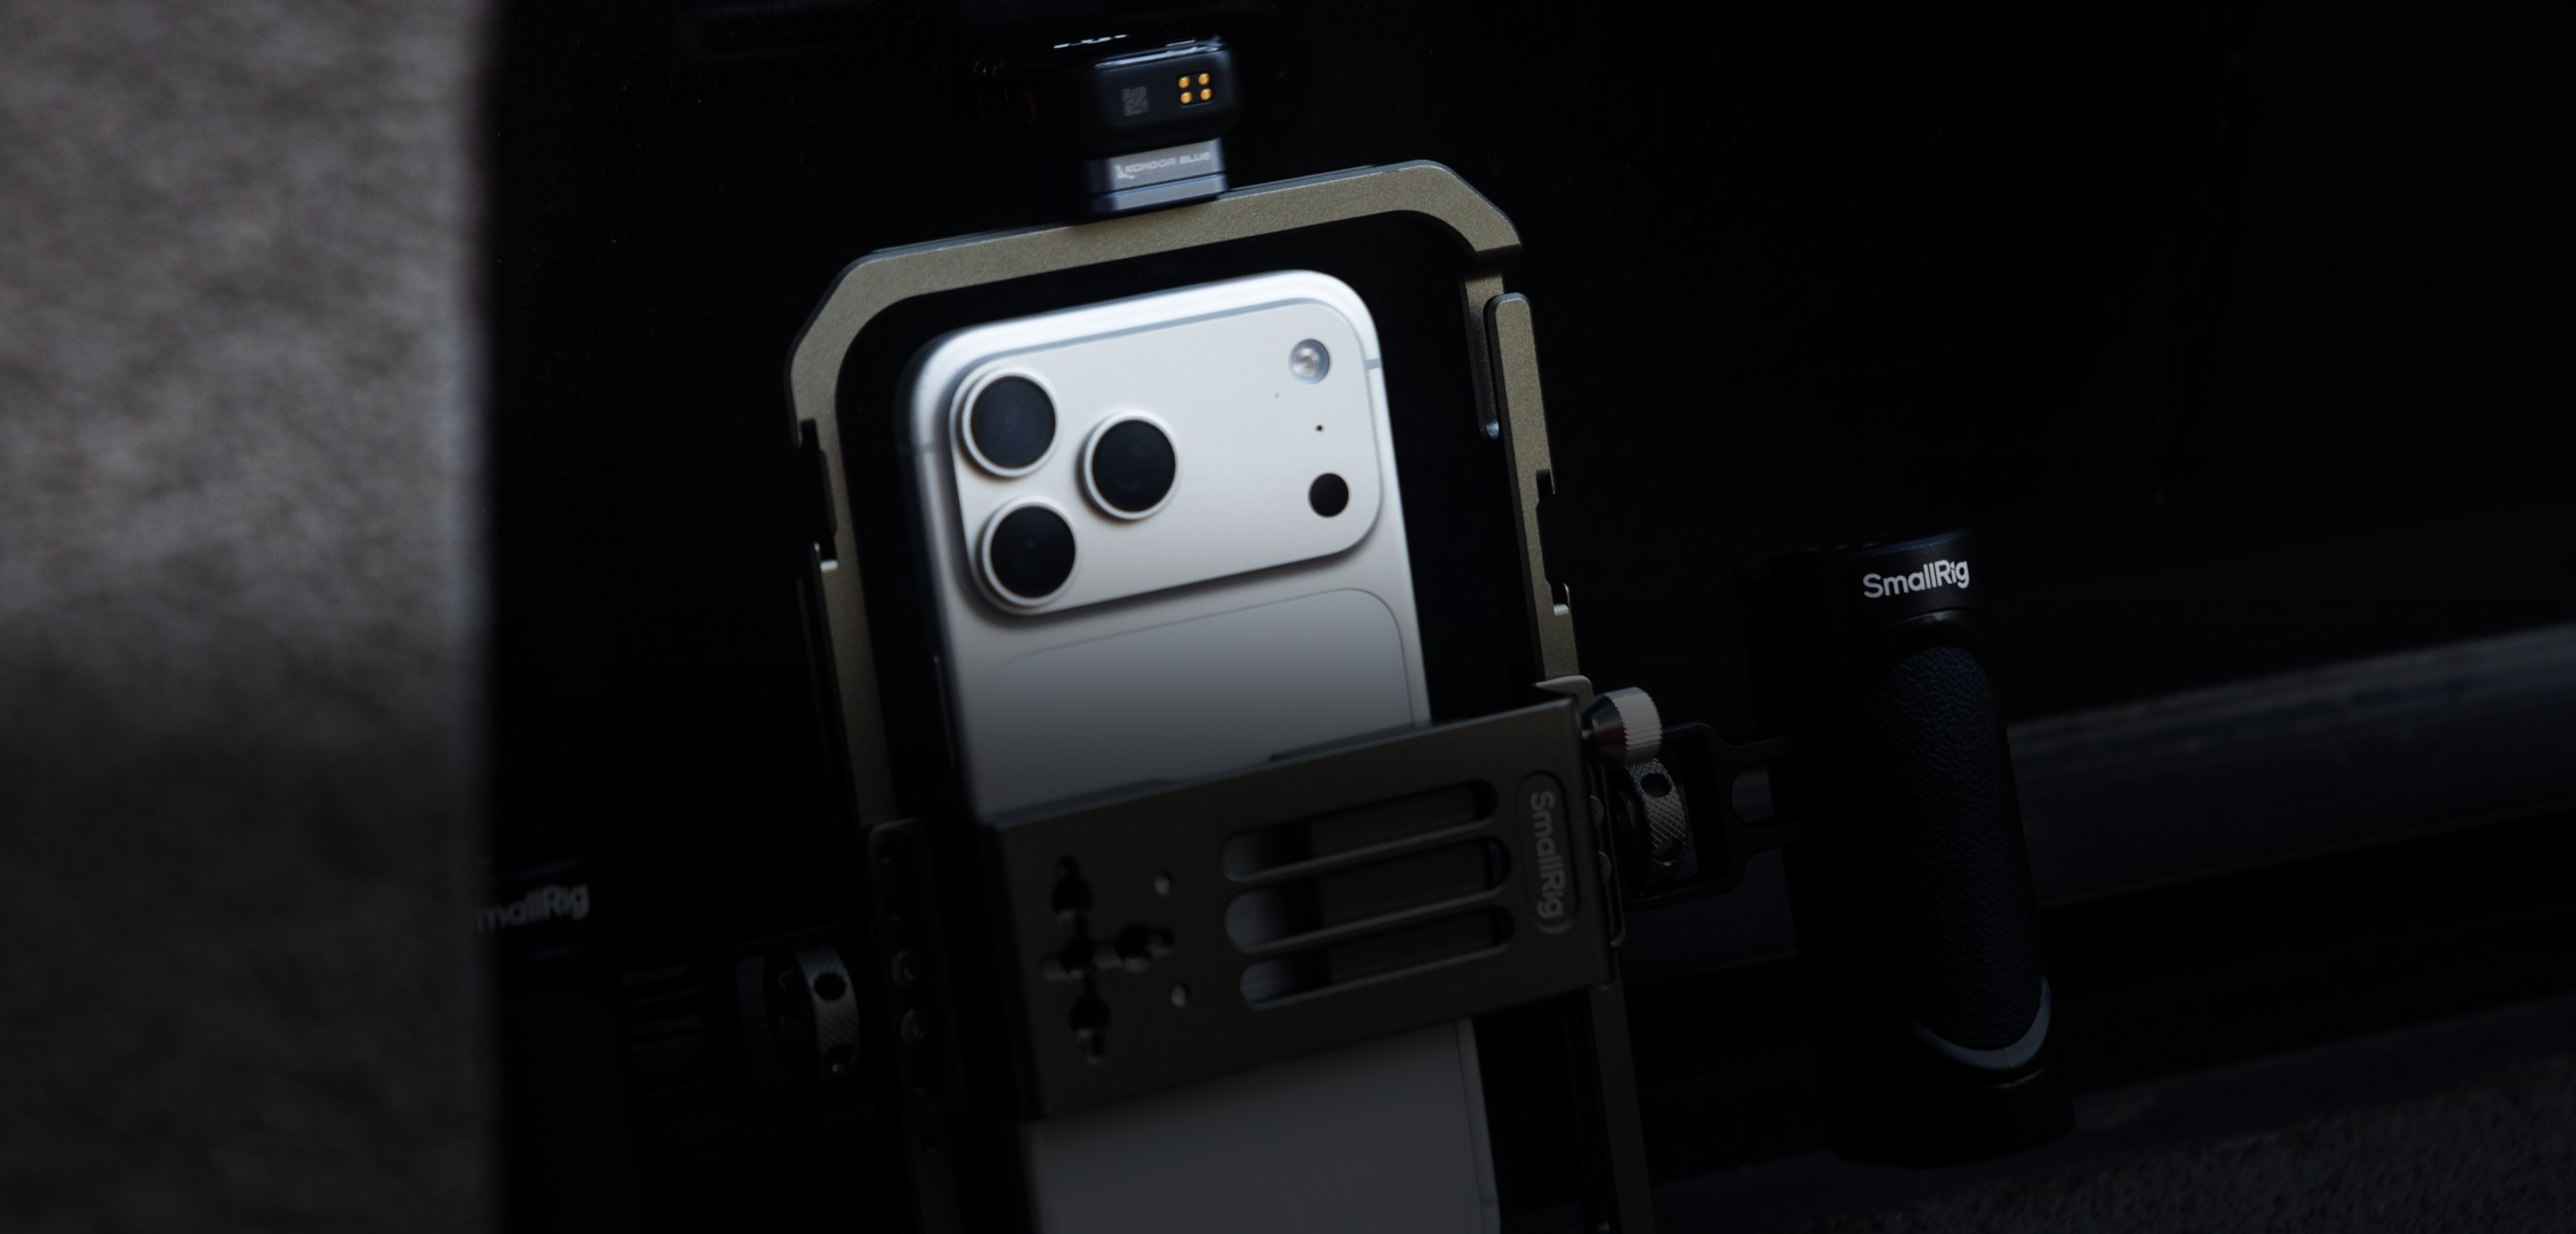
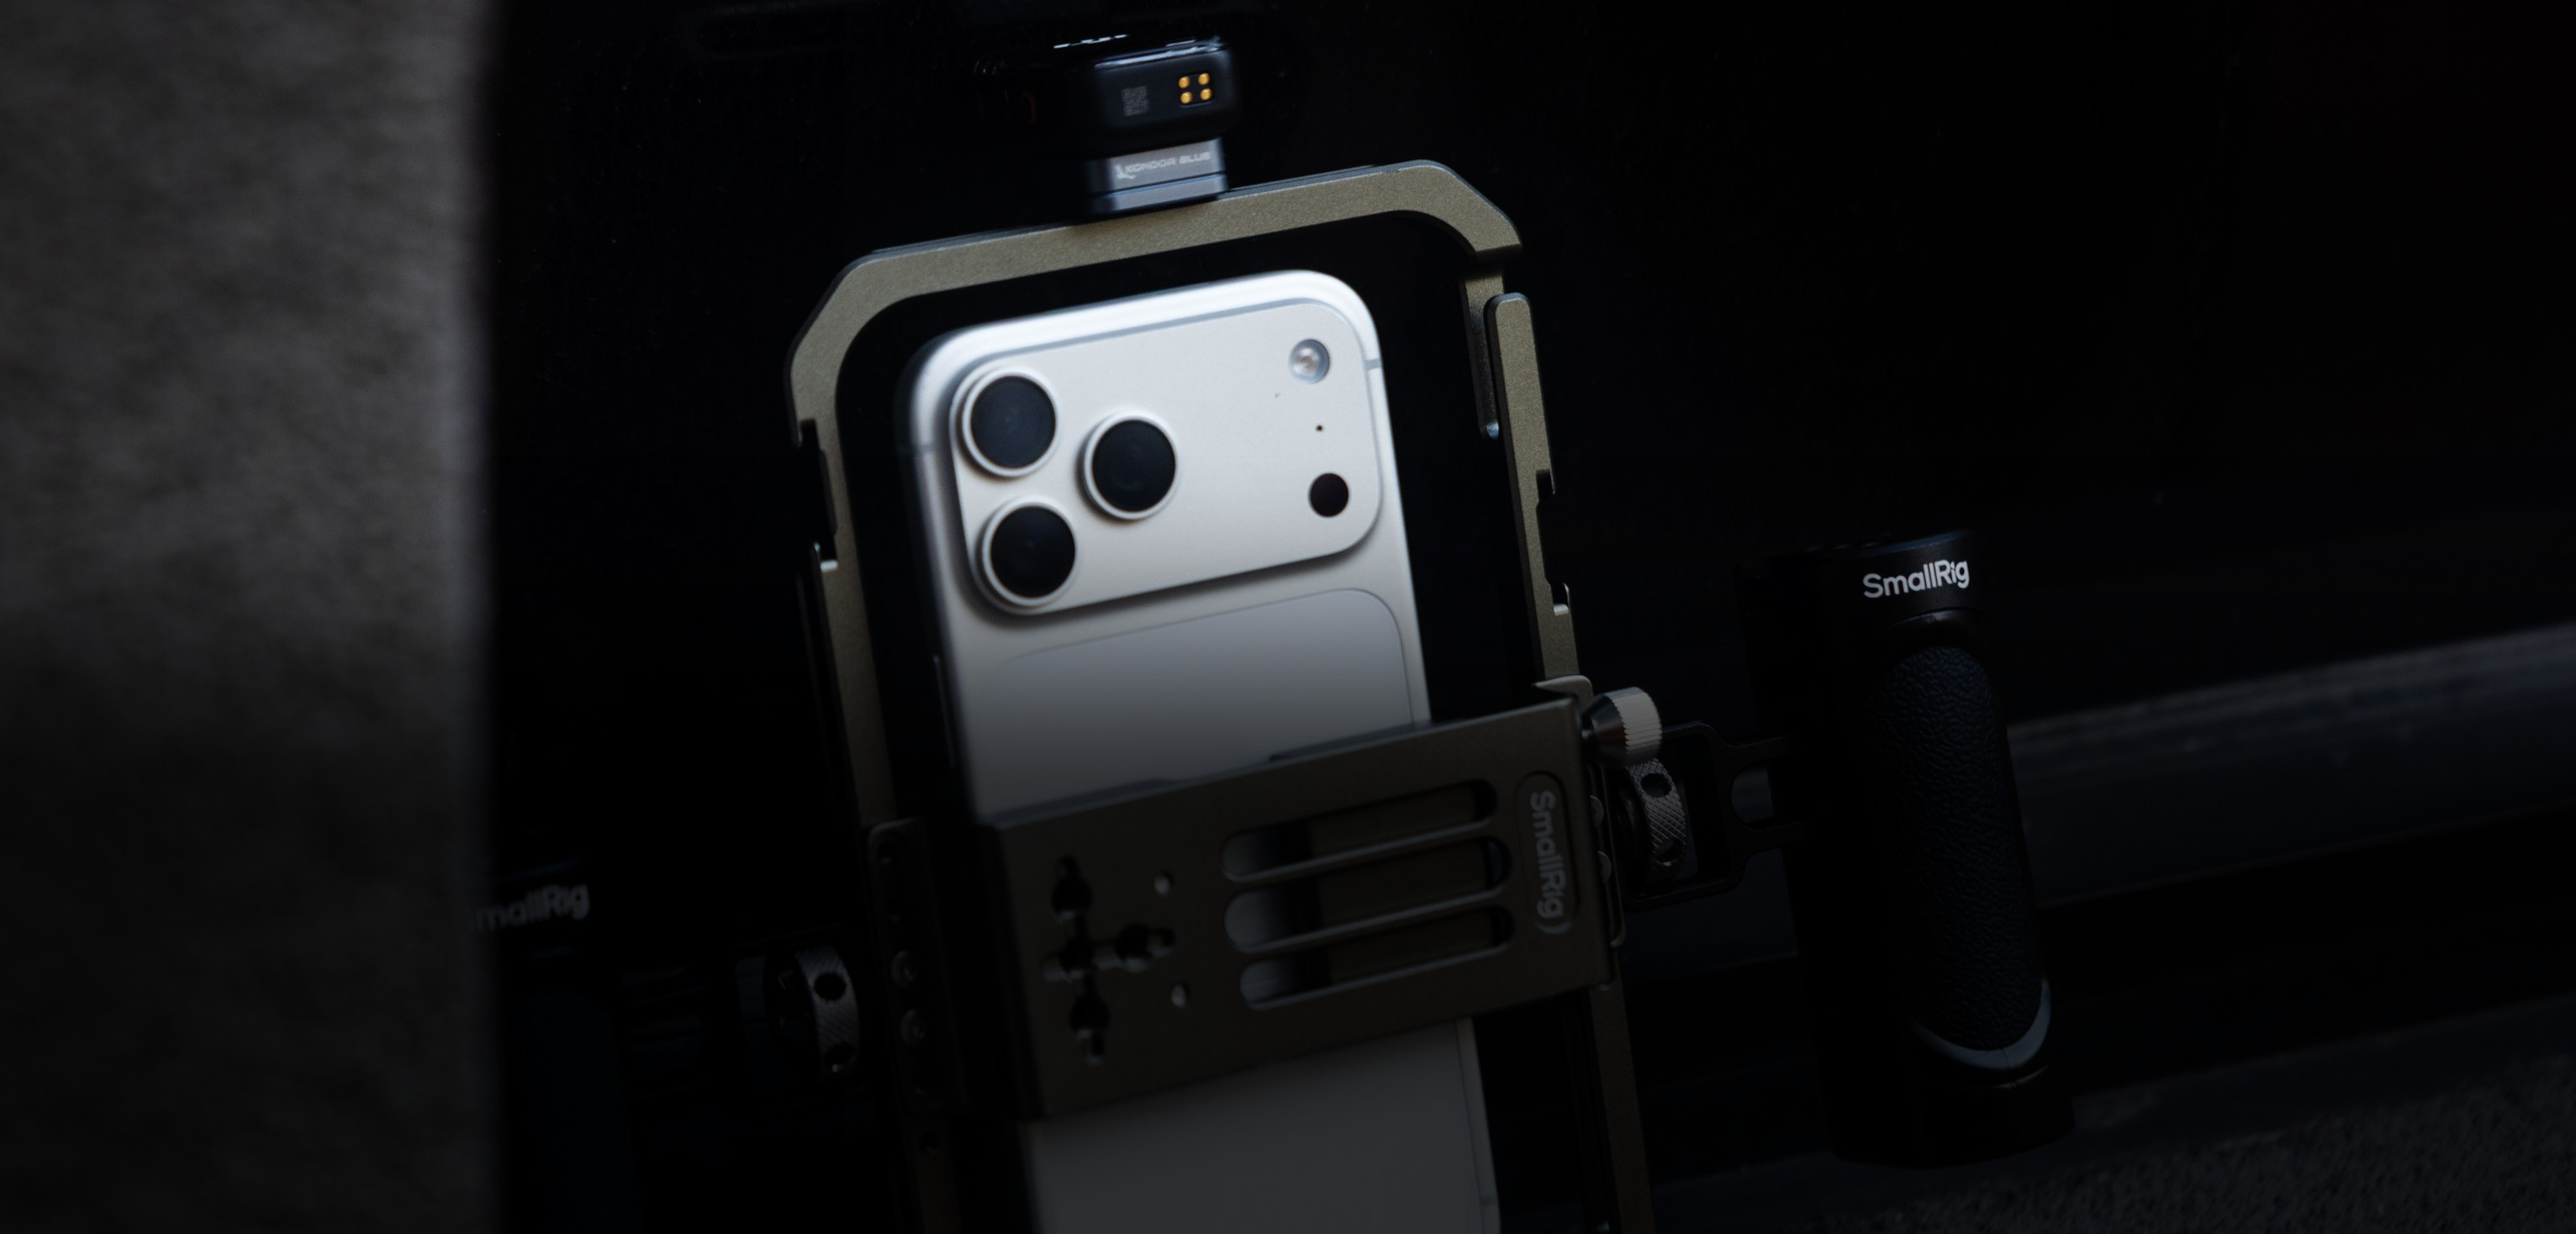
Sheet 09: clear the rig, doctrine into the open wall, kit link right
- The doctrine caption moves up into the open wall at upper left, onto the
  page's 64px margin (was 92px, low over the cage). Its text ends at x 258,
  about 20px clear of the cage.
- The Shop the Kit module moves right onto the black, 540 to the 736
  margin (was 470, over the cage's right edge). Same copy, same
  component; the link line still sets on one line.
- M08.1 re-exported from the same crop with the wall at left darkened in
  the file (smoothstep over the left 34%, down to 50%) so the blue lines
  read; the lower-band burn is unchanged and the rig itself is untouched.

Only sheet 09 changes, and only inside the hero.

Claude-Session: https://claude.ai/code/session_01RzAGc63rHXK4eqJtipB8kQ

Changed region(s): [[0.0, 0.0, 0.186, 0.5518]]

diff --git a/dist/field-guide-001.html b/dist/field-guide-001.html
@@ -1092,9 +1092,11 @@ body{background:#0d0d0d;padding:44px 0;display:flex;flex-direction:column;align-
 
   <!-- M08.1, the rig in use, anchors the page and carries the doctrine over
        it. The plate runs under the spine and off two edges, so the photograph
-       and its tab start at x 34, the spine's edge, and stop at the trim. Its
-       lower band is burned down in the file itself so the captions read; no
-       gradient is drawn on the page. -->
+       and its tab start at x 34, the spine's edge, and stop at the trim. The
+       doctrine sits in the open wall at upper left and the kit link on the
+       black at upper right, both clear of the rig. The file itself darkens
+       the wall and the lower band so the type reads; no gradient is drawn on
+       the page. -->
   <div class="plate on-dark" style="position:absolute;top:752px;left:0;right:-34px;bottom:-34px;z-index:6;border-left:none;border-right:none;border-bottom:none">
     <span class="p-id" style="left:34px">M08.1</span>
     <img src="assets/fg-m08-1.jpg" alt="" style="position:absolute;top:0;left:34px;width:766px;height:367px">
@@ -1103,7 +1105,7 @@ body{background:#0d0d0d;padding:44px 0;display:flex;flex-direction:column;align-
        Destination to be supplied. When it exists: swap the q-box svg for the
        QR image, turn "View Stephen's Kit" into the link, and delete the
        to-be-supplied line. No URL is invented here. -->
-  <div class="dark" style="position:absolute;top:773px;left:470px;width:266px;z-index:7;background:none;border-top:1px solid rgba(255,255,255,.2);padding-top:14px">
+  <div class="dark" style="position:absolute;top:773px;left:540px;width:196px;z-index:7;background:none;border-top:1px solid rgba(255,255,255,.2);padding-top:14px">
     <div class="qr">
       <div class="q-box"><svg><use href="#qrg"/></svg></div>
       <div>
@@ -1115,7 +1117,7 @@ body{background:#0d0d0d;padding:44px 0;display:flex;flex-direction:column;align-
     </div>
     <div class="kick" style="font-size:7px;letter-spacing:.14em;color:rgba(77,124,255,.66);margin-top:12px">QR destination to be supplied</div>
   </div>
-  <div style="position:absolute;top:972px;left:92px;width:320px;z-index:7">
+  <div style="position:absolute;top:836px;left:64px;width:320px;z-index:7">
     <div class="hd" style="font-size:18px;color:#fff">If You&rsquo;re Adding It Because</div>
     <div class="hd" style="font-size:18px;color:#fff">It Solves A Problem, Rig It.</div>
     <div class="hd" style="font-size:18px;color:var(--volt);margin-top:9px">If It Just Looks Cool,</div>

diff --git a/src-fg/pages/p09.html b/src-fg/pages/p09.html
@@ -69,9 +69,11 @@
 
   <!-- M08.1, the rig in use, anchors the page and carries the doctrine over
        it. The plate runs under the spine and off two edges, so the photograph
-       and its tab start at x 34, the spine's edge, and stop at the trim. Its
-       lower band is burned down in the file itself so the captions read; no
-       gradient is drawn on the page. -->
+       and its tab start at x 34, the spine's edge, and stop at the trim. The
+       doctrine sits in the open wall at upper left and the kit link on the
+       black at upper right, both clear of the rig. The file itself darkens
+       the wall and the lower band so the type reads; no gradient is drawn on
+       the page. -->
   <div class="plate on-dark" style="position:absolute;top:752px;left:0;right:-34px;bottom:-34px;z-index:6;border-left:none;border-right:none;border-bottom:none">
     <span class="p-id" style="left:34px">M08.1</span>
     <img src="assets/fg-m08-1.jpg" alt="" style="position:absolute;top:0;left:34px;width:766px;height:367px">
@@ -80,7 +82,7 @@
        Destination to be supplied. When it exists: swap the q-box svg for the
        QR image, turn "View Stephen's Kit" into the link, and delete the
        to-be-supplied line. No URL is invented here. -->
-  <div class="dark" style="position:absolute;top:773px;left:470px;width:266px;z-index:7;background:none;border-top:1px solid rgba(255,255,255,.2);padding-top:14px">
+  <div class="dark" style="position:absolute;top:773px;left:540px;width:196px;z-index:7;background:none;border-top:1px solid rgba(255,255,255,.2);padding-top:14px">
     <div class="qr">
       <div class="q-box"><svg><use href="#qrg"/></svg></div>
       <div>
@@ -92,7 +94,7 @@
     </div>
     <div class="kick" style="font-size:7px;letter-spacing:.14em;color:rgba(77,124,255,.66);margin-top:12px">QR destination to be supplied</div>
   </div>
-  <div style="position:absolute;top:972px;left:92px;width:320px;z-index:7">
+  <div style="position:absolute;top:836px;left:64px;width:320px;z-index:7">
     <div class="hd" style="font-size:18px;color:#fff">If You&rsquo;re Adding It Because</div>
     <div class="hd" style="font-size:18px;color:#fff">It Solves A Problem, Rig It.</div>
     <div class="hd" style="font-size:18px;color:var(--volt);margin-top:9px">If It Just Looks Cool,</div>

diff --git a/MEDIA-CHECKLIST.md b/MEDIA-CHECKLIST.md
@@ -190,7 +190,7 @@ has to be cropped rather than squeezed, or the export refuses the build.
 
 | ID | Type | Spec | Direction |
 |---|---|---|---|
-| M08.1 | Hero photograph | 766 × 367 visible, bleeds three edges | **Supplied at print resolution** &mdash; `fg-m08-1.jpg` at 3064 × 1468 (4×) from Drive's `M08.2.jpg` (8046 × 5209; filed under M08.2, but it is this hero). Not the flat lay first briefed: Stephen's iPhone in the SmallRig cage with both handles, the mic on the cold shoe and the drive below, which is the rig the captions talk about. Cut 7356 × 3524 with the rig left of centre and the black background under the kit link. The lower band is burned down in the file (smoothstep from 36% to 66% of the height, down to 22% brightness) so the doctrine captions read over the rig; the top half is untouched. The tab sits at x 34, clear of the spine. |
+| M08.1 | Hero photograph | 766 × 367 visible, bleeds three edges | **Supplied at print resolution** &mdash; `fg-m08-1.jpg` at 3064 × 1468 (4×) from Drive's `M08.2.jpg` (8046 × 5209; filed under M08.2, but it is this hero). Not the flat lay first briefed: Stephen's iPhone in the SmallRig cage with both handles, the mic on the cold shoe and the drive below, which is the rig the captions talk about. Cut 7356 × 3524 with the rig left of centre and the black background under the kit link. Two tonal passes in the file, none on the page: the lower band is burned down (smoothstep from 36% to 66% of the height, down to 22% brightness) and the wall at left is darkened (smoothstep over the left 34% of the width, down to 50%), so the doctrine can sit in the open wall at upper left and the kit link on the black at upper right, both clear of the rig. The rig itself is untouched. The tab sits at x 34, clear of the spine. |
 | M08.2 | QR → gear destination | 58 × 58 | **QR destination to be supplied.** The guide's one gear link: the kit Stephen actually shoots with, wherever it ends up living (his Amazon storefront or a Shooting Stars gear page). One code for the whole kit — no per-product links, prices or buy buttons anywhere in the guide. When the URL exists, swap the placeholder glyph for the QR image and link the \"View Stephen's Kit\" line; the destination can then change over time without touching the page. |
 
 ## Sheet 10 — Workflow  ·  assets M09.x
